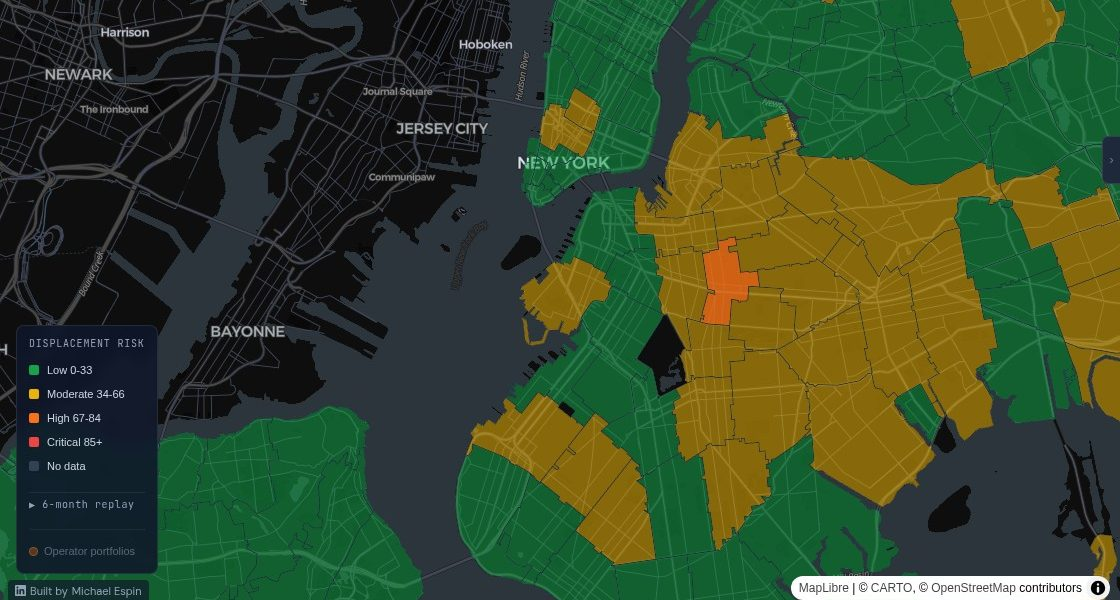
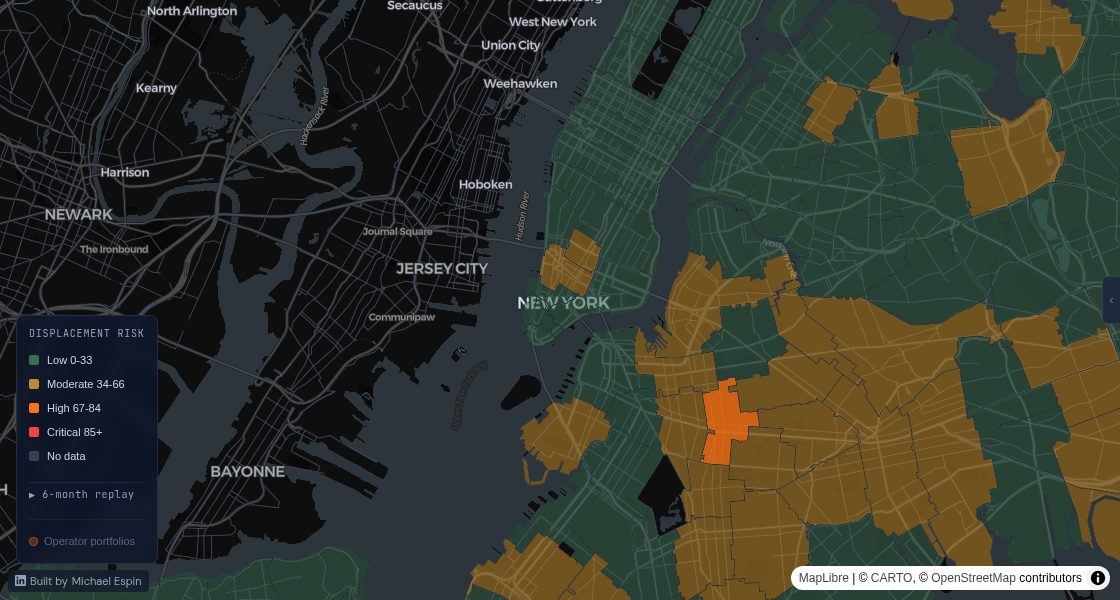
feat(design): muted green palette on every tier surface
Low #3E6B54 and moderate #C08B2D land on the map fill and legend,
methodology dots, og cards, ops distribution, and brief tier chips.
Low-as-text stays slate for contrast, matching the existing scoreColor
convention. briefs.py also had drifted tier thresholds (76/56); they
now match the canonical 85/67/34 bands.

Teaser and og-image regenerated from the recolored live map; homepage
srcset carries ?v=3 to bust the immutable cache. New tripwire tests pin
the canonical palette across app.html, index.html, and the SSR routes.

diff --git a/frontend/app.html b/frontend/app.html
@@ -437,8 +437,8 @@
             <!-- Map legend — bottom-left, always visible -->
             <div id="map-legend" class="absolute bottom-9 left-4 z-10 rounded-lg px-3 py-2 flex flex-col gap-1" style="background:rgba(15,23,42,0.88);backdrop-filter:blur(6px);border:1px solid rgba(148,163,184,0.15);font-size:11px;">
                 <div class="text-slate-400 font-mono uppercase tracking-wider mb-0.5" style="font-size:10px;letter-spacing:0.08em;"><span id="legend-header">displacement risk</span></div>
-                <div class="flex items-center gap-2"><span style="width:10px;height:10px;border-radius:2px;background:#16a34a;display:inline-block;flex-shrink:0;"></span><span id="legend-low" class="text-slate-300">Low 0-33</span></div>
-                <div class="flex items-center gap-2"><span style="width:10px;height:10px;border-radius:2px;background:#eab308;display:inline-block;flex-shrink:0;"></span><span id="legend-moderate" class="text-slate-300">Moderate 34-66</span></div>
+                <div class="flex items-center gap-2"><span style="width:10px;height:10px;border-radius:2px;background:#3E6B54;display:inline-block;flex-shrink:0;"></span><span id="legend-low" class="text-slate-300">Low 0-33</span></div>
+                <div class="flex items-center gap-2"><span style="width:10px;height:10px;border-radius:2px;background:#C08B2D;display:inline-block;flex-shrink:0;"></span><span id="legend-moderate" class="text-slate-300">Moderate 34-66</span></div>
                 <div class="flex items-center gap-2"><span style="width:10px;height:10px;border-radius:2px;background:#f97316;display:inline-block;flex-shrink:0;"></span><span id="legend-high" class="text-slate-300">High 67-84</span></div>
                 <div class="flex items-center gap-2"><span style="width:10px;height:10px;border-radius:2px;background:#ef4444;display:inline-block;flex-shrink:0;"></span><span id="legend-critical" class="text-slate-300">Critical 85+</span></div>
                 <div class="flex items-center gap-2"><span style="width:10px;height:10px;border-radius:2px;background:#334155;display:inline-block;flex-shrink:0;"></span><span id="legend-no-data" class="text-slate-300">No data</span></div>
@@ -2122,8 +2122,8 @@
                         ['==', ['coalesce', ['feature-state', 'score'], ['get', 'score']], null], '#334155',
                         [
                             'step', ['coalesce', ['feature-state', 'score'], ['get', 'score']],
-                            '#16a34a',
-                            34, '#eab308',
+                            '#3E6B54',
+                            34, '#C08B2D',
                             67, '#f97316',
                             85, '#ef4444'
                         ]
@@ -2214,7 +2214,7 @@
             if (score === null) return '#94a3b8';
             if (score >= 85) return '#ef4444';
             if (score >= 67) return '#f97316';
-            if (score >= 34) return '#eab308';
+            if (score >= 34) return '#C08B2D';
             return '#94a3b8';
         }
 
@@ -2239,7 +2239,7 @@
         function signalBarColor(v) {
             if (v >= 70) return '#ef4444';
             if (v >= 55) return '#f97316';
-            if (v >= 35) return '#eab308';
+            if (v >= 35) return '#C08B2D';
             return '#64748b';
         }
 
@@ -4282,7 +4282,7 @@
                     if (n.score !== null && n.score !== undefined) {
                         const score = document.createElement('span');
                         score.className = 'font-mono text-xs shrink-0';
-                        const c = n.score >= 85 ? '#ef4444' : n.score >= 67 ? '#f97316' : n.score >= 34 ? '#eab308' : '#94a3b8';
+                        const c = n.score >= 85 ? '#ef4444' : n.score >= 67 ? '#f97316' : n.score >= 34 ? '#C08B2D' : '#94a3b8';
                         score.style.color = c;
                         score.textContent = n.score.toFixed(1);
                         top.appendChild(score);

diff --git a/frontend/ops.html b/frontend/ops.html
@@ -198,8 +198,8 @@ tr:last-child td { border-bottom: none; }
     <div class="dist-row" style="margin-bottom:20px;">
         <div class="dist-chip"><div class="n" style="color:#ef4444;" id="dist-critical">—</div><div class="lbl">Critical</div></div>
         <div class="dist-chip"><div class="n" style="color:#f97316;" id="dist-high">—</div><div class="lbl">High</div></div>
-        <div class="dist-chip"><div class="n" style="color:#eab308;" id="dist-moderate">—</div><div class="lbl">Moderate</div></div>
-        <div class="dist-chip"><div class="n" style="color:#22c55e;" id="dist-low">—</div><div class="lbl">Low</div></div>
+        <div class="dist-chip"><div class="n" style="color:#C08B2D;" id="dist-moderate">—</div><div class="lbl">Moderate</div></div>
+        <div class="dist-chip"><div class="n" style="color:#94a3b8;" id="dist-low">—</div><div class="lbl">Low</div></div>
     </div>
 
     <!-- Two columns: recent subs + top zips -->
@@ -271,8 +271,8 @@ let lastFetch = null;
 function scoreColor(s) {
     if (s >= 85) return '#ef4444';
     if (s >= 67) return '#f97316';
-    if (s >= 34) return '#eab308';
-    return '#22c55e';
+    if (s >= 34) return '#C08B2D';
+    return '#94a3b8';
 }
 
 function daysAgo(iso) {

diff --git a/frontend/methodology.html b/frontend/methodology.html
@@ -681,12 +681,12 @@
 
         <div class="score-ranges">
             <div class="score-range">
-                <div class="color-dot" style="background:#16a34a;"></div>
+                <div class="color-dot" style="background:#3E6B54;"></div>
                 <span class="score-range-num">0 – 33</span>
                 <span class="score-range-label">Low pressure</span>
             </div>
             <div class="score-range">
-                <div class="color-dot" style="background:#eab308;"></div>
+                <div class="color-dot" style="background:#C08B2D;"></div>
                 <span class="score-range-num">34 – 66</span>
                 <span class="score-range-label">Moderate pressure</span>
             </div>

diff --git a/tests/test_frontend_routes.py b/tests/test_frontend_routes.py
@@ -354,7 +354,33 @@ class TestCanonicalTierBands:
         idx = (Path(__file__).parent.parent / "frontend" / "index.html").read_text()
         for legacy in ("score >= 70", "score >= 40) return", "score >= 15) return"):
             assert legacy not in idx, f"legacy tier threshold '{legacy}' in index.html"
-        assert "score >= 85" in idx
+
+    # Canonical tier palette, decided 2026-07-10 from real map renders:
+    # low #3E6B54, moderate #C08B2D, high #F97316, critical #EF4444.
+    # Fills and chips carry the palette; low-as-text stays slate for
+    # contrast. If a hex changes, change every surface in the same commit.
+    _STALE_TIER_HEXES = ("#16a34a", "#eab308", "#22c55e", "#4ade80")
+
+    def test_map_fill_and_legend_use_canonical_palette(self):
+        app = self._app()
+        for canon in ("#3E6B54", "#C08B2D"):
+            assert canon in app, f"canonical tier color '{canon}' missing from app.html"
+        for stale in self._STALE_TIER_HEXES:
+            assert stale not in app, f"stale tier color '{stale}' is back in app.html"
+
+    def test_landing_legend_uses_canonical_palette(self):
+        idx = (Path(__file__).parent.parent / "frontend" / "index.html").read_text()
+        for canon in ("#3E6B54", "#C08B2D", "#F97316", "#EF4444"):
+            assert canon in idx, f"canonical tier color '{canon}' missing from index.html legend"
+        for stale in self._STALE_TIER_HEXES:
+            assert stale not in idx, f"stale tier color '{stale}' in index.html"
+
+    def test_ssr_tier_colors_use_canonical_palette(self):
+        for name in ("frontend.py", "briefs.py"):
+            src = (Path(__file__).parent.parent / "api" / "routes" / name).read_text()
+            assert "#C08B2D" in src, f"canonical moderate color missing from {name}"
+            for stale in self._STALE_TIER_HEXES:
+                assert stale not in src, f"stale tier color '{stale}' in {name}"
 
 
 @pytest.mark.integration

diff --git a/api/routes/briefs.py b/api/routes/briefs.py
@@ -43,13 +43,17 @@ def _now_str() -> str:
 
 
 def _score_tier(score: float) -> tuple[str, str]:
-    """Return (label, hex_color) for a displacement score."""
-    if score >= 76:
+    """Return (label, hex_color) for a displacement score.
+
+    Bands match the canonical tiers everywhere else on the site:
+    Low 0-33, Moderate 34-66, High 67-84, Critical 85+.
+    """
+    if score >= 85:
         return "Critical", "#ef4444"
-    if score >= 56:
+    if score >= 67:
         return "High", "#f97316"
     if score >= 34:
-        return "Moderate", "#eab308"
+        return "Moderate", "#C08B2D"
     return "Low", "#64748b"
 
 
@@ -57,7 +61,7 @@ def _idx_color(v: float) -> str:
     if v >= 70:
         return "#f97316"
     if v >= 45:
-        return "#eab308"
+        return "#C08B2D"
     return "rgba(148,163,184,0.45)"
 
 

diff --git a/api/routes/og_images.py b/api/routes/og_images.py
@@ -44,10 +44,10 @@ _DIM    = (20, 32, 56)
 # Canonical bands: Low 0-33, Moderate 34-66, High 67-84, Critical 85+.
 # Must match the map legend, panel, summaries, and digest.
 def _score_color(score: float) -> tuple:
-    if score >= 85: return (220, 60, 60)
+    if score >= 85: return (239, 68, 68)
     if score >= 67: return (249, 115, 22)
-    if score >= 34: return (210, 160, 10)
-    return (30, 170, 80)
+    if score >= 34: return (192, 139, 45)
+    return (62, 107, 84)
 
 
 def _score_tier(score: float) -> str:
